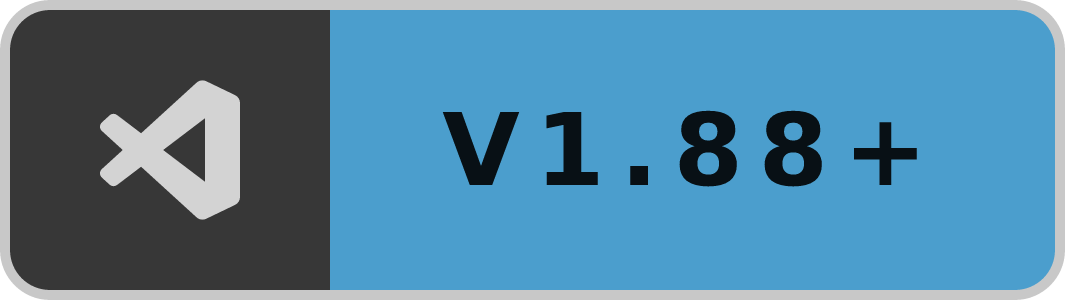
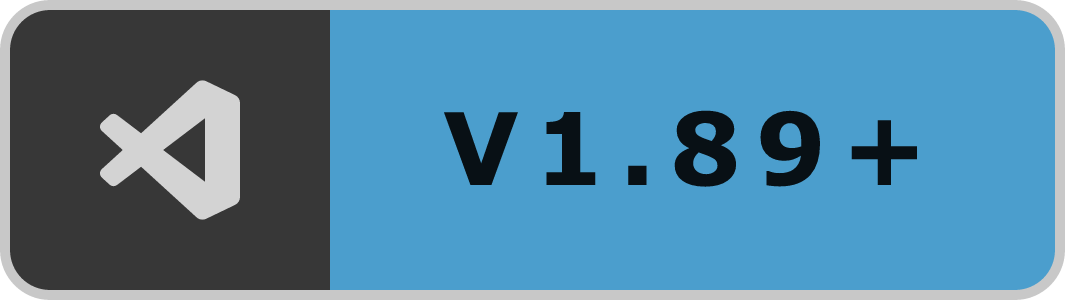
prep: Release v2.5.4

diff --git a/src/hooks/updateBadges.ts b/src/hooks/updateBadges.ts
@@ -14,7 +14,7 @@ fetchModifySvg(
   false,
 );
 fetchModifySvg(
-  "https://img.shields.io/badge/-v1.88+-4B9ECD.svg?labelColor=373737&label=&logo=visualstudiocode&logoColor=%23FFFFFFC7&style=for-the-badge",
+  "https://img.shields.io/badge/-v1.89+-4B9ECD.svg?labelColor=373737&label=&logo=visualstudiocode&logoColor=%23FFFFFFC7&style=for-the-badge",
   path.join(IMAGES_PATH, "badge-vscode.svg"),
   true,
   false,

diff --git a/README.md b/README.md
@@ -317,7 +317,7 @@ Changes from the last major release shown below. If you want to see the full cha
 
 ### Added
 
-- VS Code v1.88.x support.
+- VS Code v1.89.x support.
 - Modularity system. Users can now side-load **third party themes**.
 - Brand new design, **"Minimal"**. Users can now choose between **"Modern"** and **"Minimal"** designs.
 - Command `codemosModern.authenticate` to increase GitHub **api rate limits**.

diff --git a/CHANGELOG.md b/CHANGELOG.md
@@ -8,6 +8,12 @@ The format is based on [Keep a Changelog](https://keepachangelog.com/en/1.0.0/),
 
 Nothing yet.
 
+## [2.5.4] - 2024-02-05 - v1.89.x Support 🟢
+
+### Added
+
+- Support for VS Code v1.89.x.
+
 ## [2.5.3] - 2024-30-04 - v1.88.x Support 🟢
 
 ### Added
